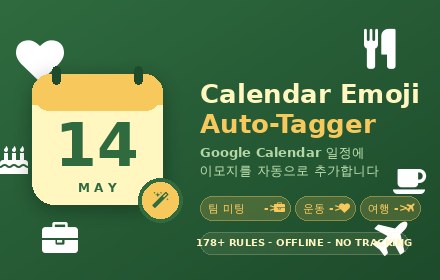
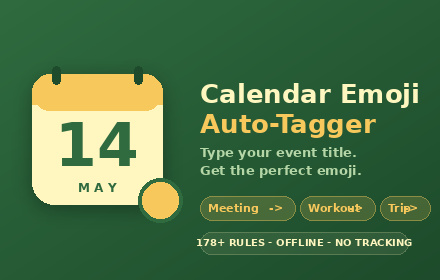
Localize store assets to English (target: US market)

diff --git a/store-assets/STORE-LISTING.md b/store-assets/STORE-LISTING.md
@@ -1,0 +1,212 @@
+# Chrome Web Store Submission Copy (US English)
+
+Copy-paste ready content for the Chrome Web Store Developer Dashboard. Target market: United States.
+
+---
+
+## 📦 Files to Upload
+
+| Item | Path |
+|---|---|
+| Extension ZIP | `C:\Users\user\OneDrive\Project_U\The Business\ETC Business\calendar-emoji-v2-gpt\calendar-emoji-v2\extension.zip` |
+| Screenshot (1280×800) | `C:\Users\user\OneDrive\Project_U\The Business\ETC Business\calendar-emoji-v2-gpt\calendar-emoji-v2\store-assets\screenshot-1.png` |
+| Small promo tile (440×280) | `C:\Users\user\OneDrive\Project_U\The Business\ETC Business\calendar-emoji-v2-gpt\calendar-emoji-v2\store-assets\promo-tile.png` |
+
+---
+
+## 📝 Store Listing — Product Details
+
+### Title
+```
+Calendar Emoji Auto-Tagger
+```
+
+### Summary (≤ 132 chars)
+```
+Automatically add the perfect emoji to your Google Calendar event titles. 178+ keyword rules, 6 languages, 100% offline.
+```
+
+### Description
+```
+📅 Make your Google Calendar prettier and easier to scan at a glance.
+
+Type "Team Meeting" and it instantly becomes "💼 Team Meeting".
+"Workout" → "🏃 Workout". "Trip to Hawaii" → "✈ Trip to Hawaii".
+
+Calendar Emoji Auto-Tagger reads your event titles and adds the right emoji — automatically, instantly, and entirely inside your browser.
+
+━━━━━━━━━━━━━━━━━━━━━━━━━━
+
+✨ FEATURES
+
+🎯 178+ built-in keyword rules
+Covers work, meals, fitness, health, travel, learning, family, and more.
+
+🌍 Works in 6 languages
+English, Korean, Japanese, Chinese, Spanish, and French event titles are all recognized.
+
+⚡ Instant, automatic tagging
+The emoji appears the moment you finish typing your title — no extra clicks.
+
+🔒 100% offline · No server
+Everything runs inside your browser. Your calendar content is never sent anywhere.
+
+🎨 5 themes
+Pick from Forest Green, Dark, Light, Pastel, or Vivid to match your style.
+
+✏ Add your own custom rules
+Define your own [emoji + keyword] combinations for the things you care about.
+
+━━━━━━━━━━━━━━━━━━━━━━━━━━
+
+🛡 YOUR PRIVACY
+
+This extension collects nothing:
+- ❌ No event content sent externally
+- ❌ No personal info collected
+- ❌ No tracking, no ads, no third-party services
+- ✅ Settings stored locally via chrome.storage only
+
+Full privacy policy:
+https://sroniwon.github.io/calendar-emoji/privacy-policy.html
+
+━━━━━━━━━━━━━━━━━━━━━━━━━━
+
+🚀 HOW IT WORKS
+
+1. Install the extension.
+2. Open Google Calendar and create an event.
+3. Type a title — the matching emoji appears automatically.
+
+Zero setup. It just works.
+
+━━━━━━━━━━━━━━━━━━━━━━━━━━
+
+📧 Questions or feedback? sroniwon@gmail.com
+```
+
+### Category
+```
+Productivity
+```
+
+### Language (Default)
+```
+English
+```
+
+---
+
+## 🔗 Privacy & URLs
+
+### Privacy Policy URL ⭐ (REQUIRED)
+```
+https://sroniwon.github.io/calendar-emoji/privacy-policy.html
+```
+
+### Homepage URL (Optional)
+```
+https://github.com/sroniwon/calendar-emoji
+```
+
+### Support URL (Optional)
+```
+https://github.com/sroniwon/calendar-emoji/issues
+```
+
+---
+
+## 🔐 Privacy Practices Tab
+
+### Single Purpose
+```
+Automatically add a relevant emoji to a Google Calendar event title based on keyword matching, performed entirely in the user's browser.
+```
+
+### Permission Justifications
+
+**`storage` permission:**
+```
+Used only to store the user's own preferences locally via chrome.storage.sync — the on/off toggle, language, theme, custom emoji rules, and a count of how many times the user has used the feature. No data is transmitted to any external server.
+```
+
+**`host_permissions: https://calendar.google.com/*`:**
+```
+Required so the extension can detect when the user is typing an event title on Google Calendar and insert the matching emoji into that same input field. The extension only reads and modifies the title input field on calendar.google.com — it does not read, collect, store, or transmit any other event data.
+```
+
+### Data Usage
+
+Leave **everything UNCHECKED** (none apply):
+- ❌ Personally identifiable information
+- ❌ Health information
+- ❌ Financial and payment information
+- ❌ Authentication information
+- ❌ Personal communications
+- ❌ Location
+- ❌ Web history
+- ❌ User activity
+- ❌ Website content
+
+### Data Usage Compliance Certification
+Check all three:
+- ✅ I do not sell or transfer user data to third parties, outside of the approved use cases
+- ✅ I do not use or transfer user data for purposes that are unrelated to my item's single purpose
+- ✅ I do not use or transfer user data to determine creditworthiness or for lending purposes
+
+---
+
+## 🌐 Distribution
+
+### Visibility
+```
+Public
+```
+
+### Regions
+```
+All regions
+```
+*Or pick "United States only" if you specifically want to limit. But "All regions" is the default and recommended.*
+
+### Pricing
+```
+Free
+```
+
+---
+
+## 🎯 Submission Order in Dashboard
+
+1. **Dashboard home** → click **"Add new item"**
+2. Upload **`extension.zip`**
+3. **Store listing tab**:
+   - Title, Summary, Description (copy from above)
+   - Category: Productivity
+   - Language: English
+   - Upload **screenshot-1.png** (1280×800)
+   - Upload **promo-tile.png** as Small promo tile (440×280)
+4. **Privacy practices tab**:
+   - Single purpose
+   - Permission justifications (storage + host)
+   - Data usage: leave all unchecked
+   - Compliance certification: check all 3 boxes
+5. **Distribution tab**: Public / All regions / Free
+6. **Account → Privacy Policy URL** (paste the GitHub Pages URL)
+7. Click **"Submit for review"**
+
+⏱ Review usually takes 1–3 days, sometimes up to a week.
+
+---
+
+## ⚠ Tips
+
+- If asked to justify the **broad host permission**, the answer is in the host_permissions justification above. The key phrase: "only reads and modifies the title input field."
+- Test videos are usually **not required** for simple productivity extensions. If asked, record a 30-second unlisted YouTube clip showing the emoji appearing as you type.
+- First submissions are often **rejected** — common reasons: weak description, screenshot too plain, permissions justification too vague. If rejected, read the reason, fix, and resubmit.
+- The **promo tile** is what users first see in the store grid, so its quality really matters for click-through.
+
+---
+
+Good luck! 🚀
+
